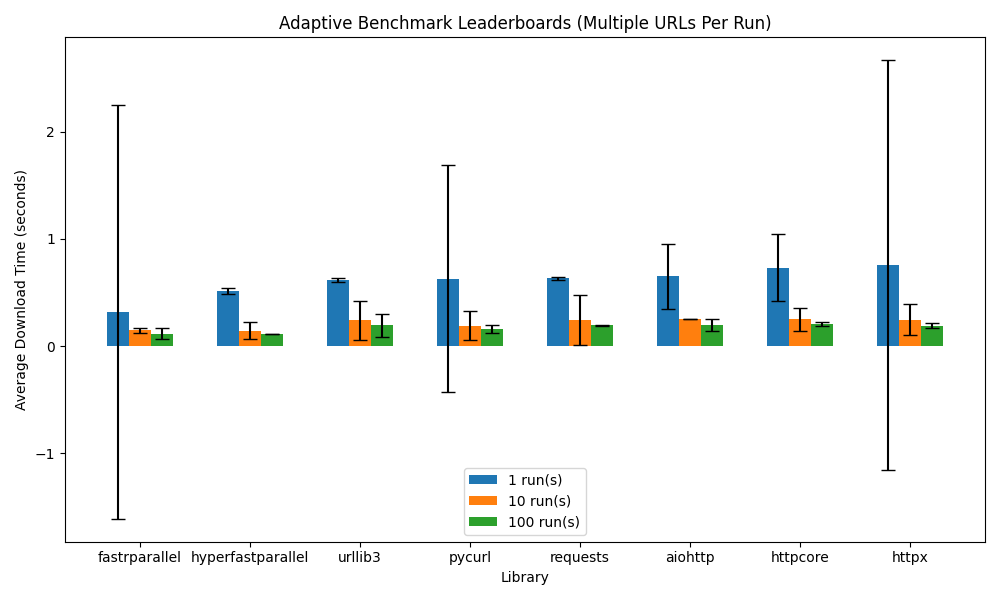
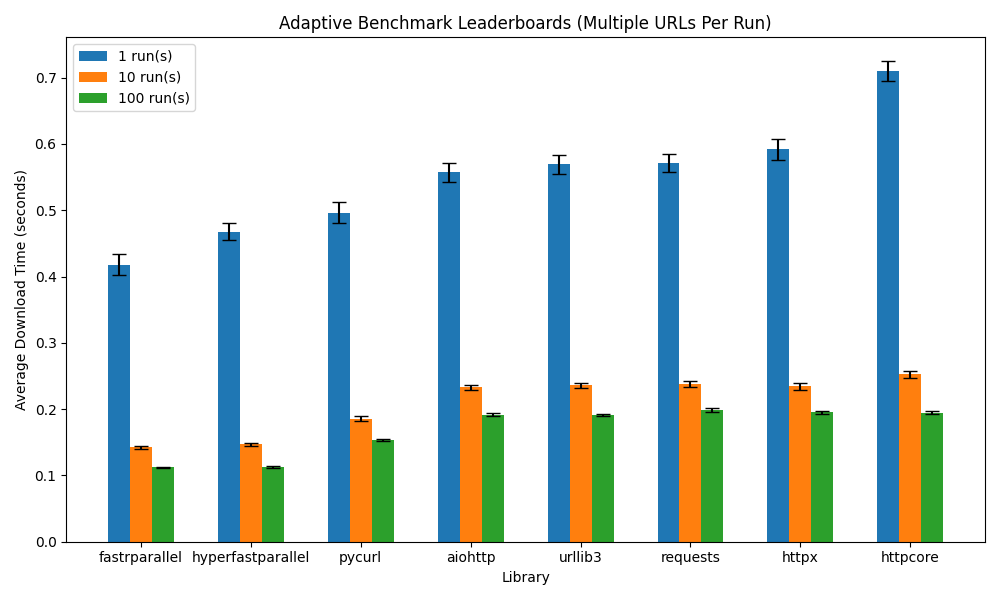
feat: multi-URL client reuse with Rust (reqwests fastest)

diff --git a/client_reuse_with_rs/reuse.py b/client_reuse_with_rs/reuse.py
@@ -20,8 +20,8 @@ CONDITIONS = [1, 10, 100]
 # Adaptive sampling parameters
 TOLERANCE = 0.01  # How precise we want each library’s mean estimate
 CONFIDENCE = 0.95  # Confidence level for confidence intervals
-MIN_REPEATS = 2  # 30  # Minimum repeats before we check if we can stop
-MAX_REPEATS = 2  # 50  # Maximum repeats to avoid infinite loops
+MIN_REPEATS = 30  # Minimum repeats before we check if we can stop
+MAX_REPEATS = 50  # Maximum repeats to avoid infinite loops
 
 # Our set of URLs (each run will fetch them all)
 URLS = [
